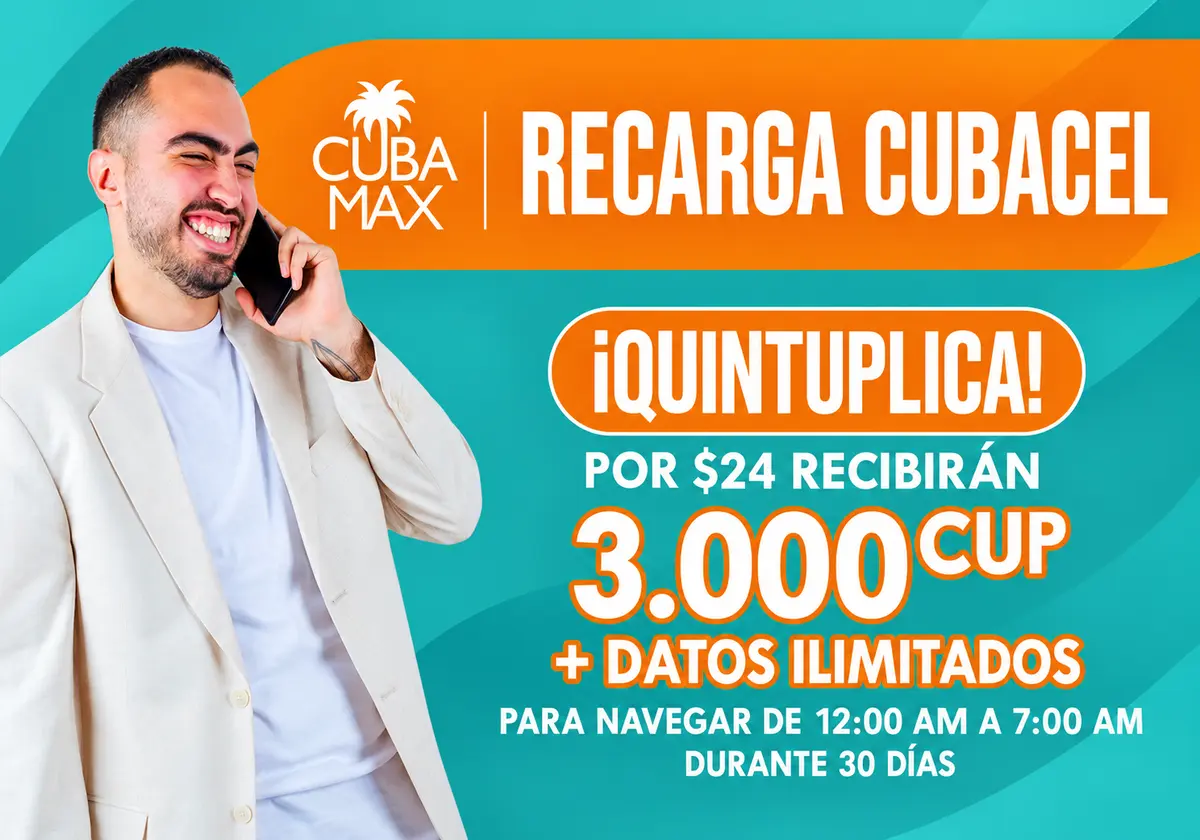
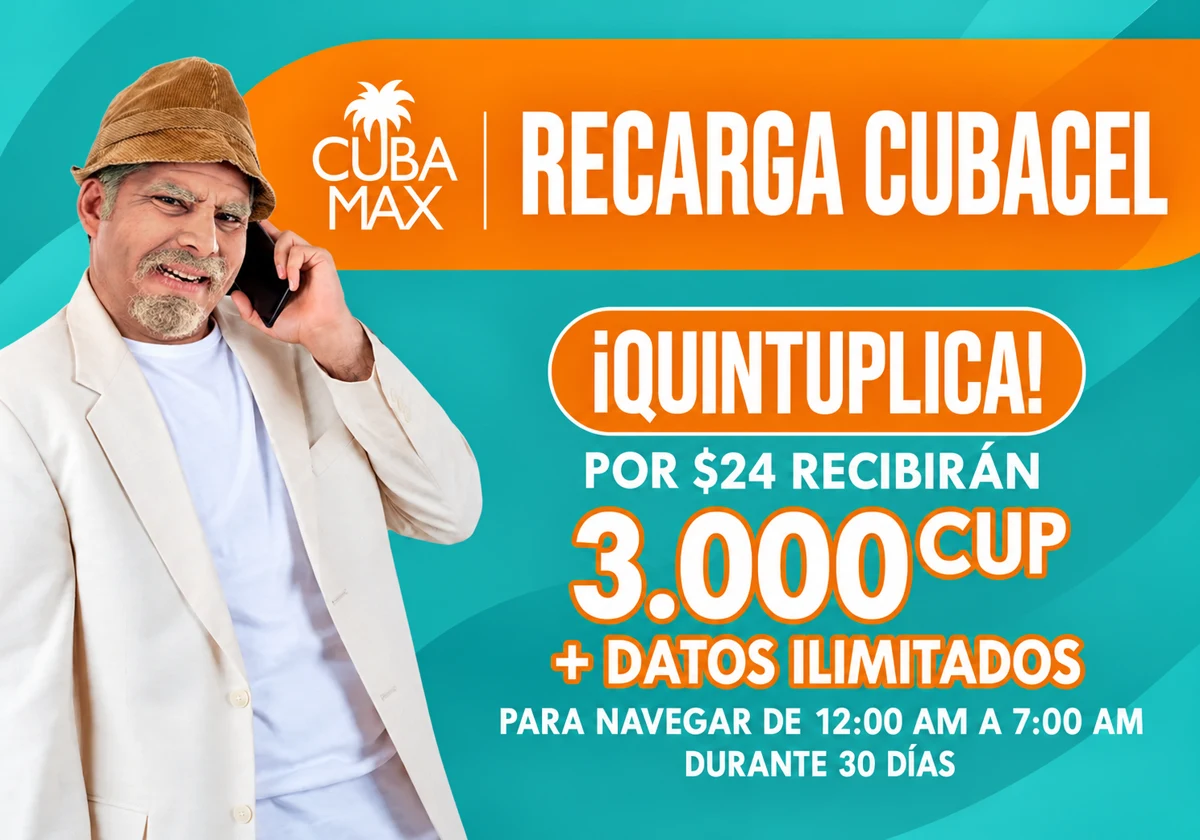
Replace recharge model with Panfilo and EcoFlow slide with Cubamax Shein couple

diff --git a/public/cubamax-headline.js b/public/cubamax-headline.js
@@ -6,7 +6,7 @@
  const primaryImage=intro.querySelector('img');
  const slides=[intro],ready=[!!(primaryImage?.complete&&primaryImage.naturalWidth)];let current=0,timer=null,gesture=null,primaryFailed=false;
  const reduced=globalThis.matchMedia?.('(prefers-reduced-motion: reduce)');
- const photos=[['contacto','Cubamax: (786) 887-6115'],['grupo','Cubamax con su familia: (786) 887-6115'],['remesas2','Remesas a Cuba · Tarifa 2%'],['recargas','Recarga Cubacel'],['supercombo','Super Combo'],['ecoflow','EcoFlow portátil Delta 3, $719'],['equipo','El equipo de Cubamax']];
+ const photos=[['contacto','Cubamax: (786) 887-6115'],['grupo','Cubamax con su familia: (786) 887-6115'],['remesas2','Remesas a Cuba · Tarifa 2%'],['recargas','Recarga Cubacel'],['supercombo','Super Combo'],['ecoflow','Alejandro y Flora · Cubamax Shein'],['equipo','El equipo de Cubamax']];
  function schedule(){
   clearTimeout(timer);timer=null;
   if(ready[current]&&!document.hidden&&!gesture&&!reduced?.matches)timer=setTimeout(()=>show(1),5000);
